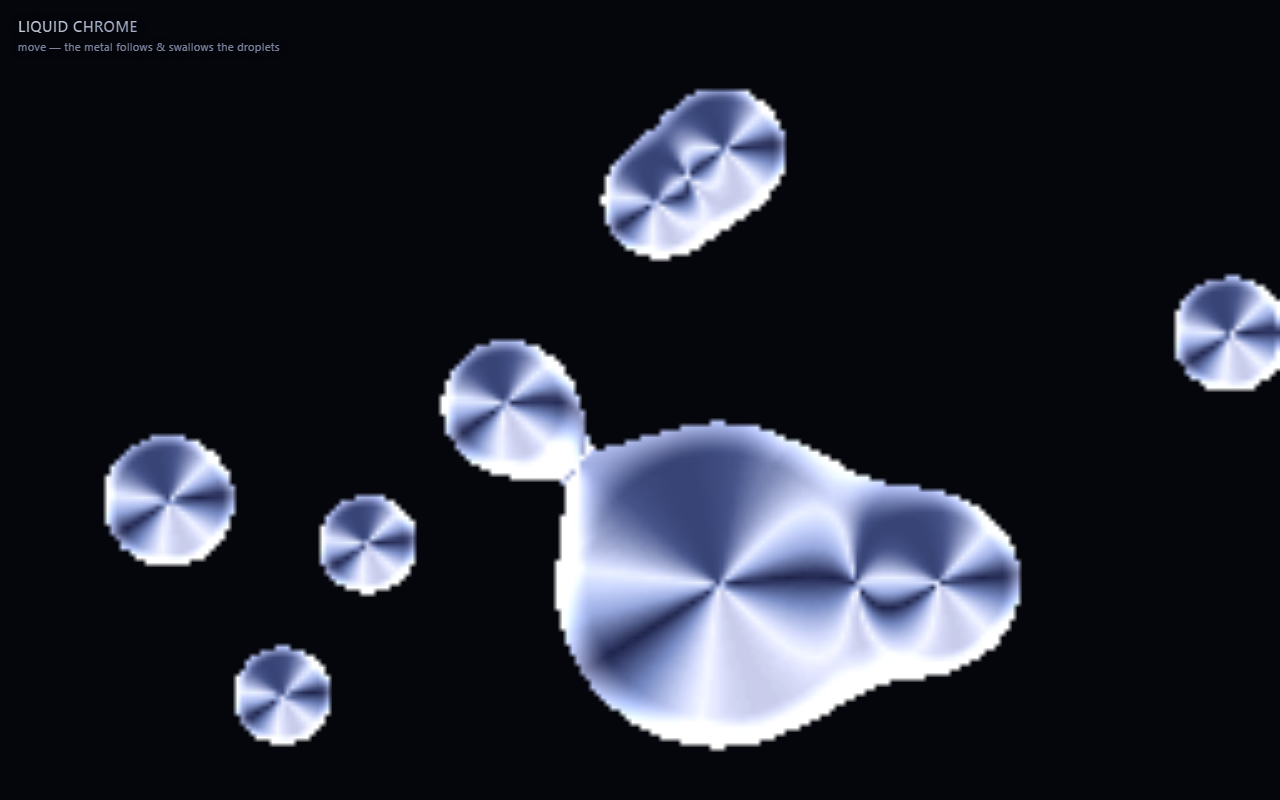
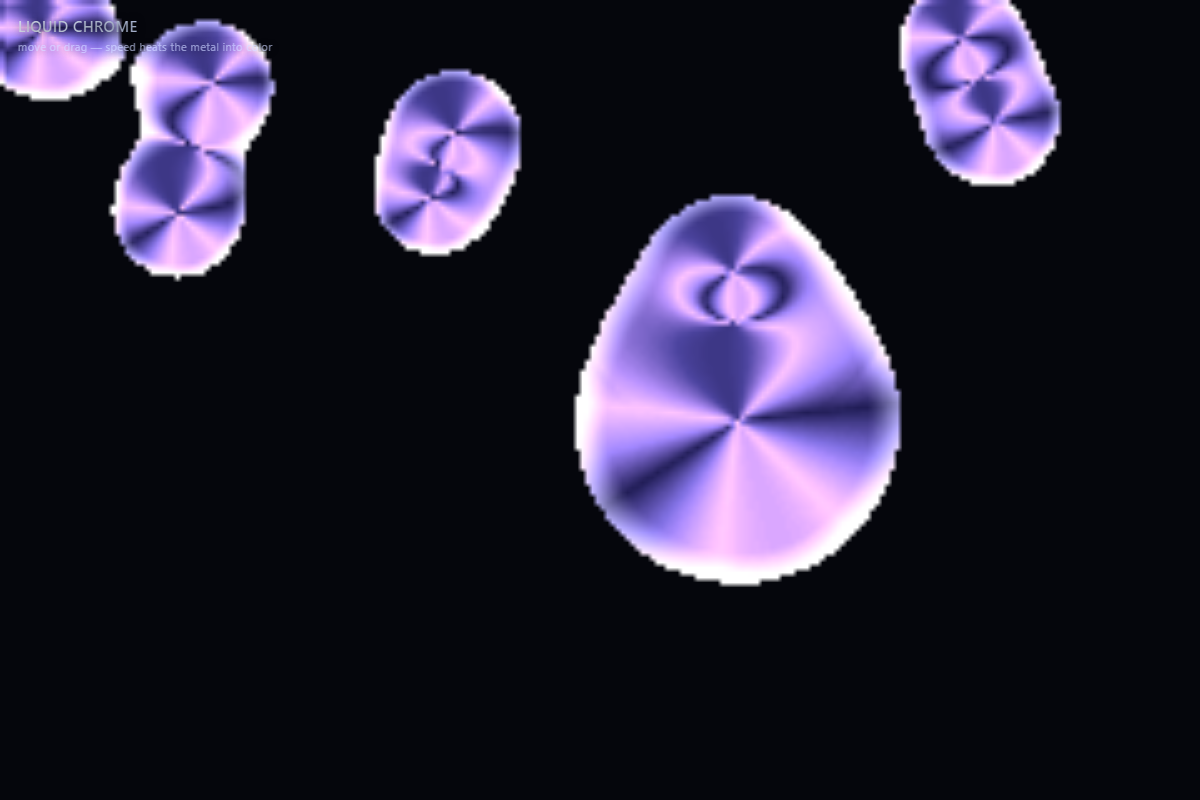
T18: liquid chrome velocity color-shift + touch/drag support

diff --git a/projects/liquid-chrome/index.html b/projects/liquid-chrome/index.html
@@ -5,9 +5,9 @@
 <meta name="viewport" content="width=device-width, initial-scale=1, maximum-scale=1">
 <title>Liquid Chrome</title>
 <style>
-  html,body{margin:0;height:100%;background:#05060a;overflow:hidden;cursor:none;
+  html,body{margin:0;height:100%;background:#05060a;overflow:hidden;cursor:none;touch-action:none;
     font-family:-apple-system,BlinkMacSystemFont,"Segoe UI",Roboto,sans-serif}
-  canvas{display:block;width:100vw;height:100vh}
+  canvas{display:block;width:100vw;height:100vh;touch-action:none}
   #hud{position:fixed;left:18px;top:16px;color:#cdd6ff;z-index:2;pointer-events:none;
     text-shadow:0 1px 8px rgba(0,0,0,.8);letter-spacing:.02em}
   #hud h1{margin:0;font-size:15px;font-weight:600;
@@ -17,7 +17,7 @@
 </style>
 </head>
 <body>
-<div id="hud"><h1>LIQUID CHROME</h1><p>move — the metal follows &amp; swallows the droplets</p></div>
+<div id="hud"><h1>LIQUID CHROME</h1><p>move or drag — speed heats the metal into color</p></div>
 <canvas id="c"></canvas>
 <script>
 const cv = document.getElementById('c'), ctx = cv.getContext('2d');
@@ -63,7 +63,21 @@ for(let i=0;i<N;i++){
     tr: i===0? 130 : 34+Math.random()*30});
 }
 let mx = W/2, my = H/2, mt = 0;
-addEventListener('pointermove', e=>{ mx=e.clientX; my=e.clientY; }, {passive:true});
+const point = e=>{ mx=e.clientX; my=e.clientY; };
+addEventListener('pointermove', point, {passive:true});
+addEventListener('pointerdown', point, {passive:true}); // touch: tap/drag anywhere
+
+// velocity-driven reflection tint: idle = neutral chrome, motion heats it into color
+let lastX = W/2, lastY = H/2, spd = 0, hue = 0, tR = 1, tG = 1, tB = 1;
+function updateTint(main){
+  const vx = main.x-lastX, vy = main.y-lastY; lastX = main.x; lastY = main.y;
+  const s = Math.min(Math.hypot(vx,vy)/16, 1);
+  spd += (s-spd)*0.07;                       // smoothed speed 0..1
+  if(s>0.05) hue += (Math.atan2(vy,vx)-hue)*0.1; // direction steers the hue
+  tR = 1 + spd*0.55*Math.cos(hue);
+  tG = 1 + spd*0.40*Math.cos(hue+2.094);
+  tB = 1 + spd*0.55*Math.cos(hue+4.188);
+}
 
 function step(){
   mt += 0.016;
@@ -91,6 +105,7 @@ function step(){
 
 function frame(){
   step();
+  updateTint(blobs[0]);
   field.fill(0);
   // accumulate metaball field on low-res grid
   for(let bi=0;bi<N;bi++){
@@ -122,7 +137,7 @@ function frame(){
       // environment lookup: vertical reflection band + horizontal tint
       let t = 0.5 + 0.34*ny + 0.12*nx;
       const li=((t<0?0:t>1?1:t)*255)|0, L=li*3;
-      let rr=LUT[L], gg=LUT[L+1], bb=LUT[L+2];
+      let rr=LUT[L]*tR, gg=LUT[L+1]*tG, bb=LUT[L+2]*tB;
       // rim / fresnel highlight near silhouette
       const rim = f<T*0.9 ? (1-(f-T*0.55)/(T*0.35)) : 0;
       const sp = Math.pow(rim<0?0:rim,1.5)*120;